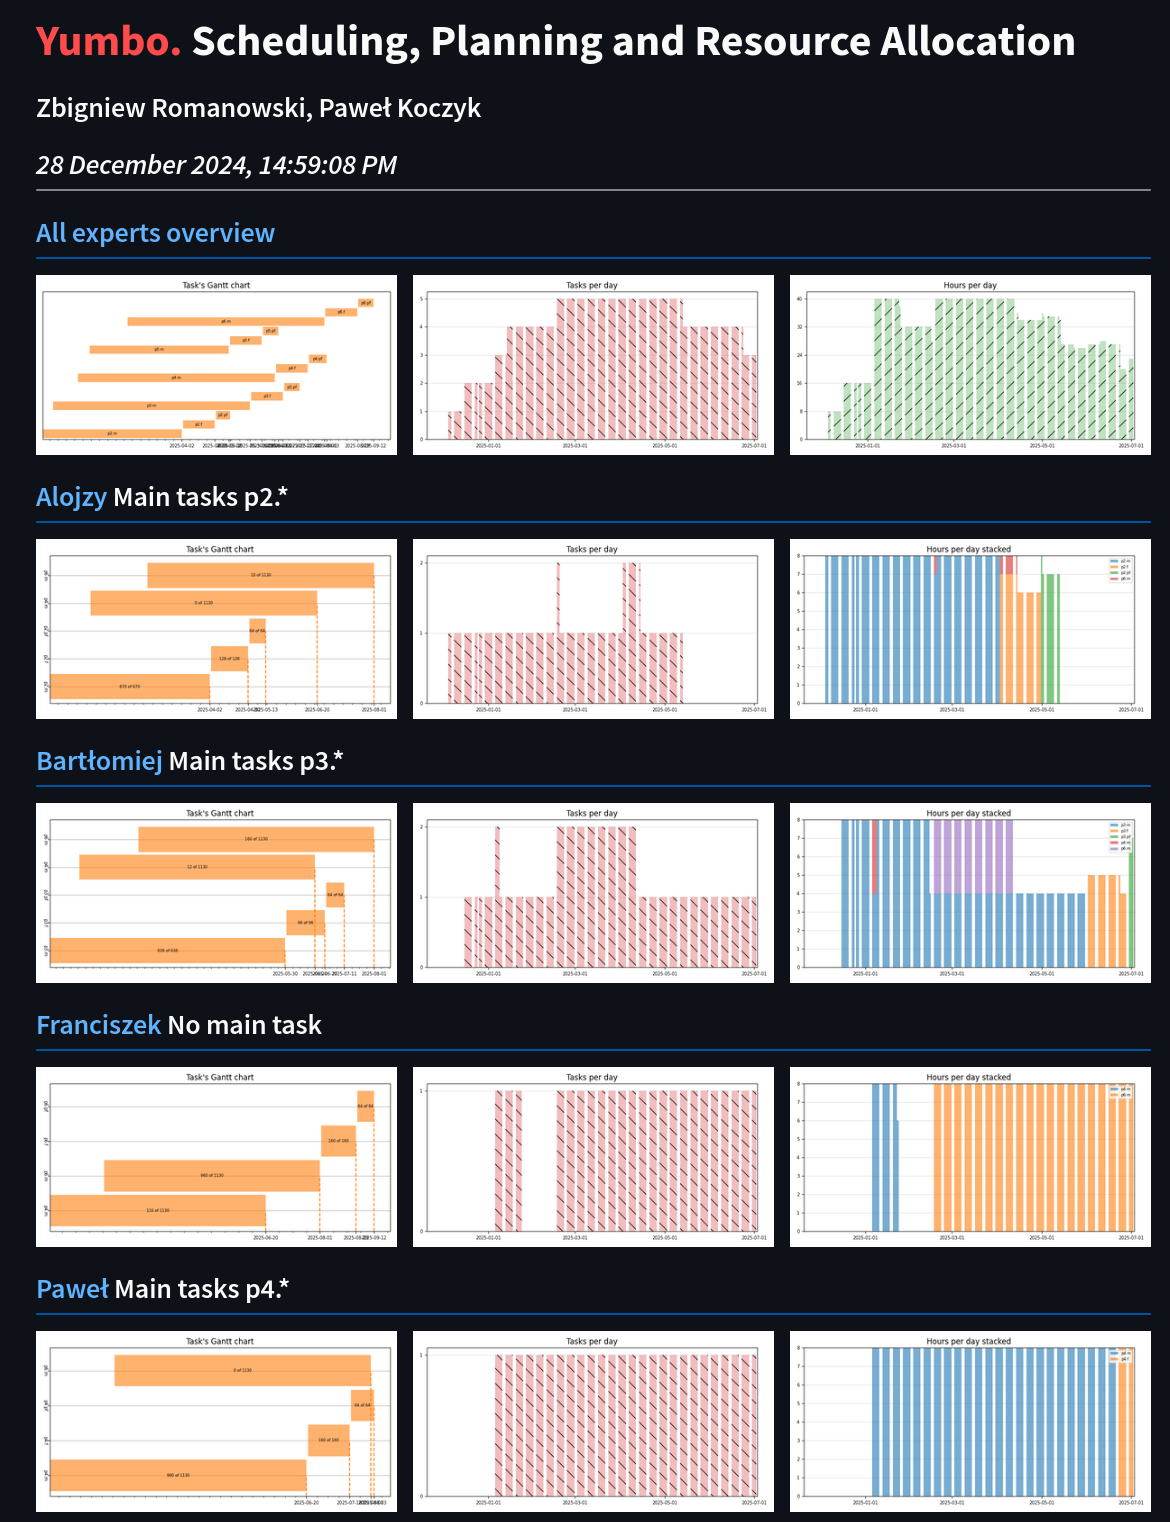
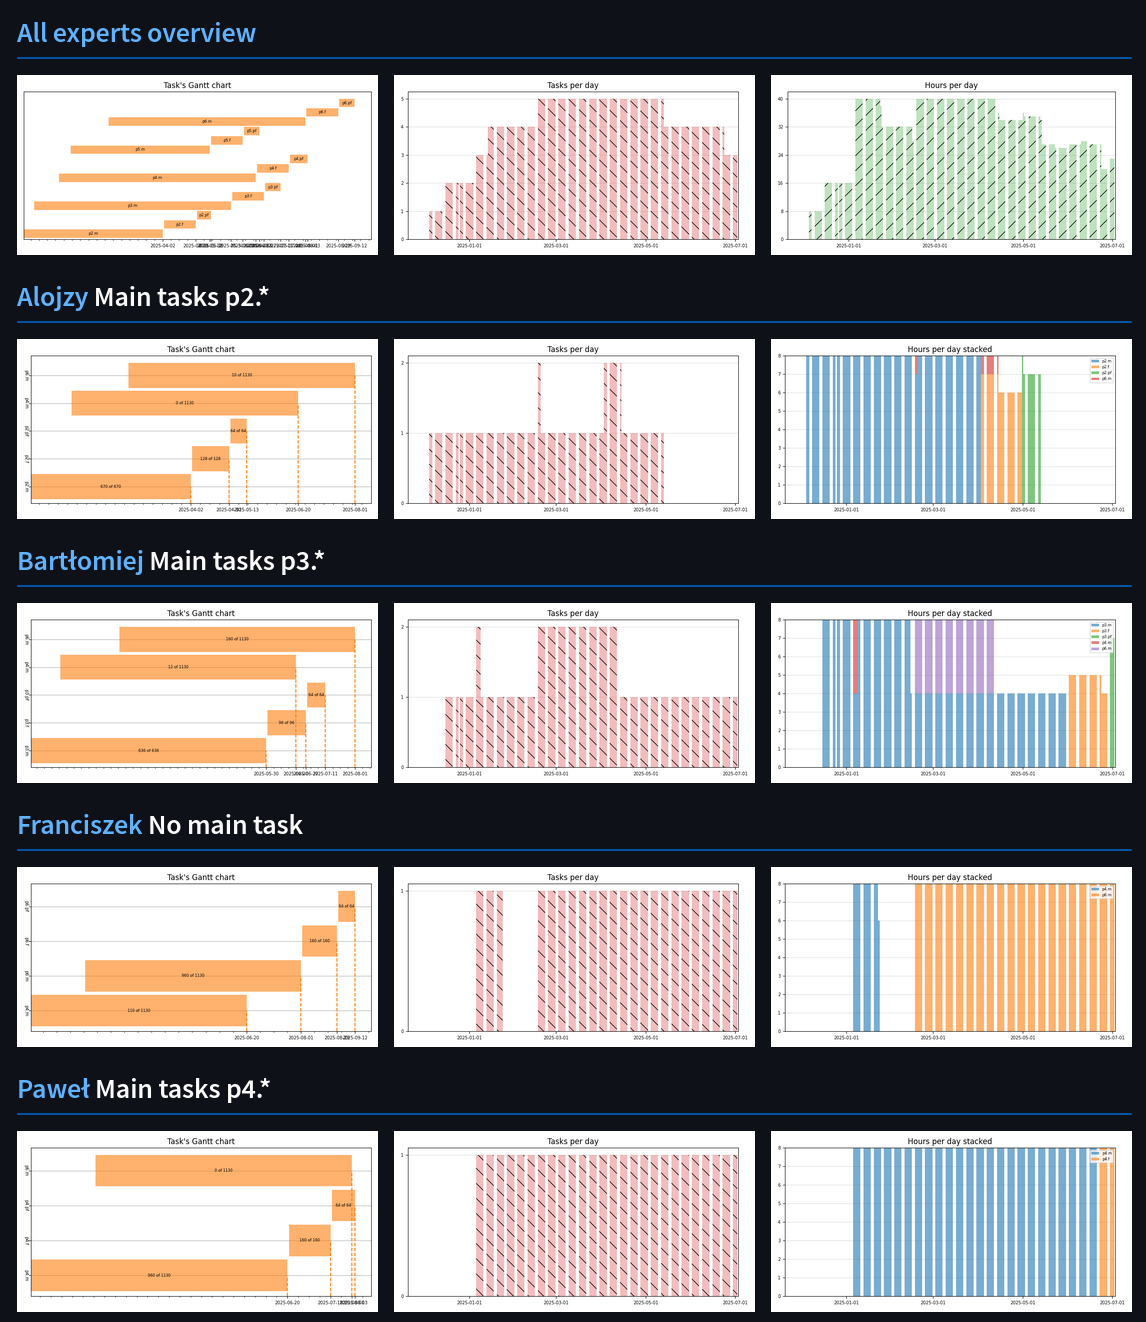
Update image on the fromt page of README

diff --git a/README.md b/README.md
@@ -1,3 +1,5 @@
 # :red[Yumbo.] Scheduling, Planning and Resource Allocation
 
+![img-00](./doc/img-00.png)
+
 ![img-01](./doc/img-01.png)
